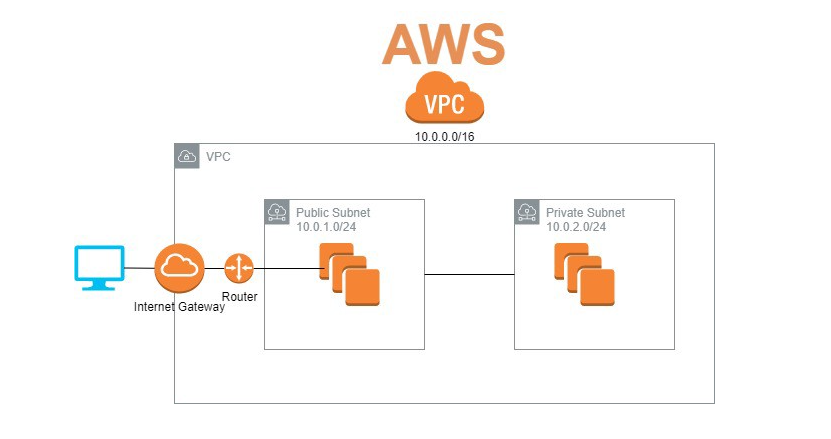
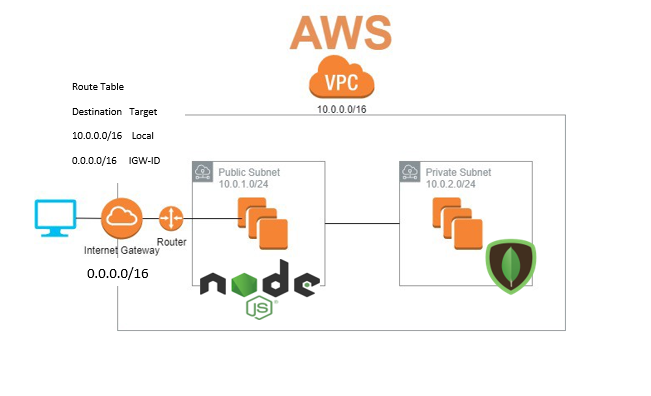
Image

diff --git a/README.md b/README.md
@@ -61,5 +61,5 @@ Step 5: Create a security group now or create when we launch our app, port 22 fr
 - Create private subnet 
 - Reboot DB AMI EC2 inside private subnet
 - Modify Security group of DB so that private subnet has no internet access and only connects to app AMI, use the private subnet IP 10.0.7.0/24 for port 22 and port 27017.
-- SSH into app EC2, change the env var so that DB_HOST uses the private IP of DB subnet
+- SSH into app EC2, change the env var so that DB_HOST uses the private IP of DB subnet, located in the description page of DB_VPC AMI 
 - cd into app folder and run npm install and npm start to boot app.
